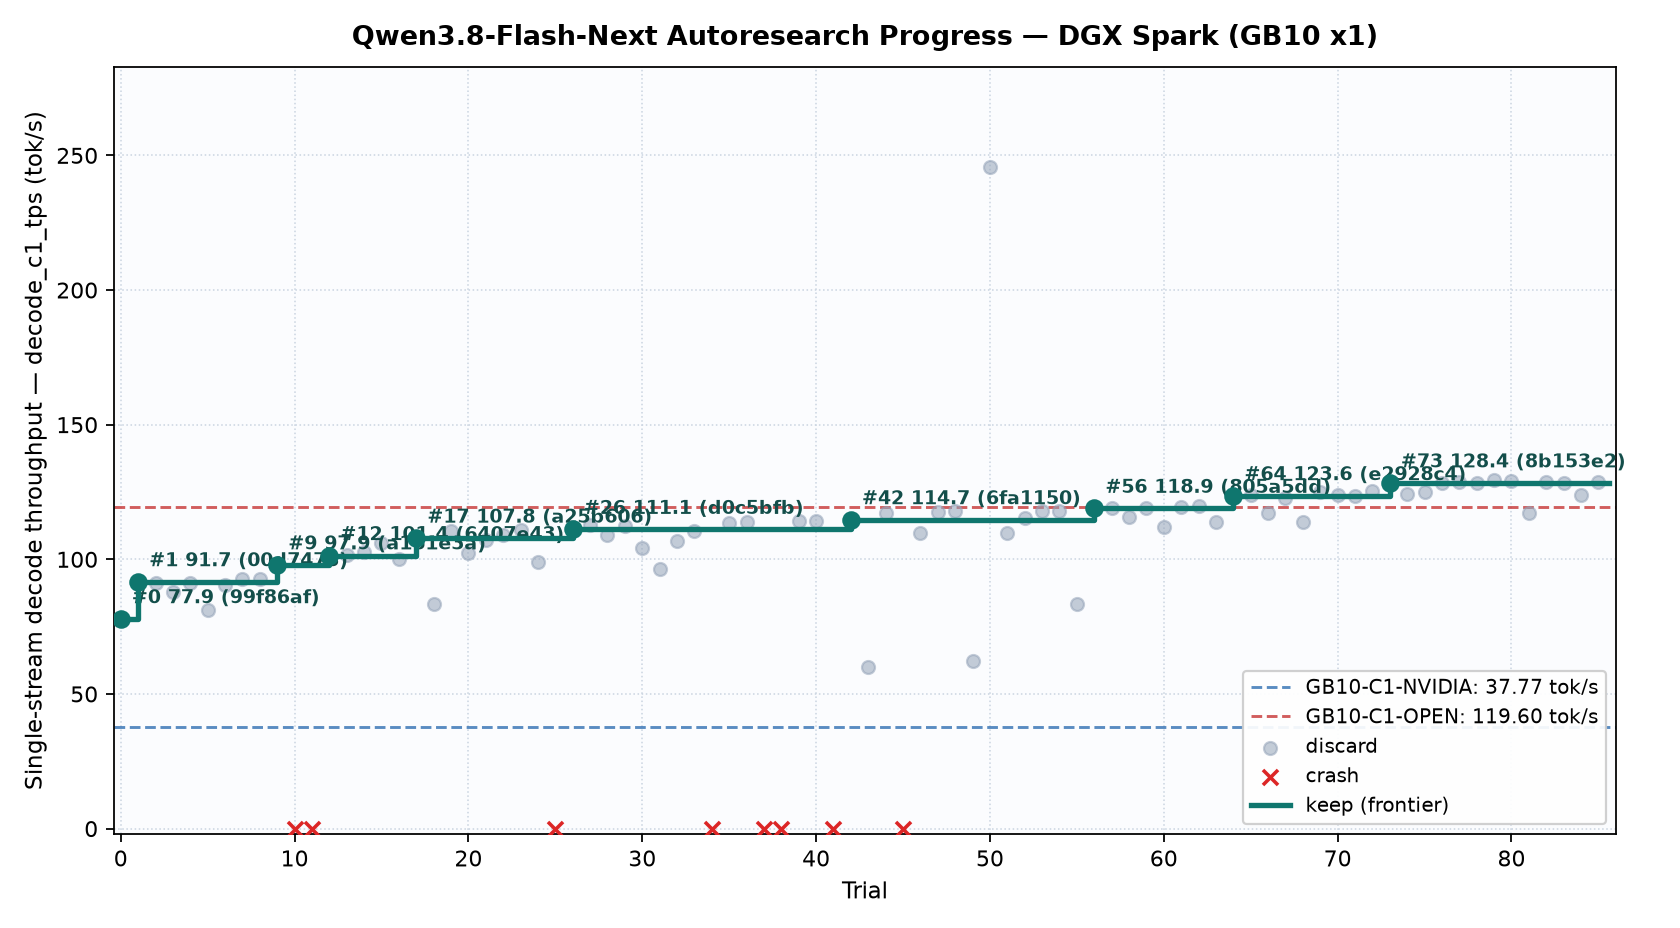
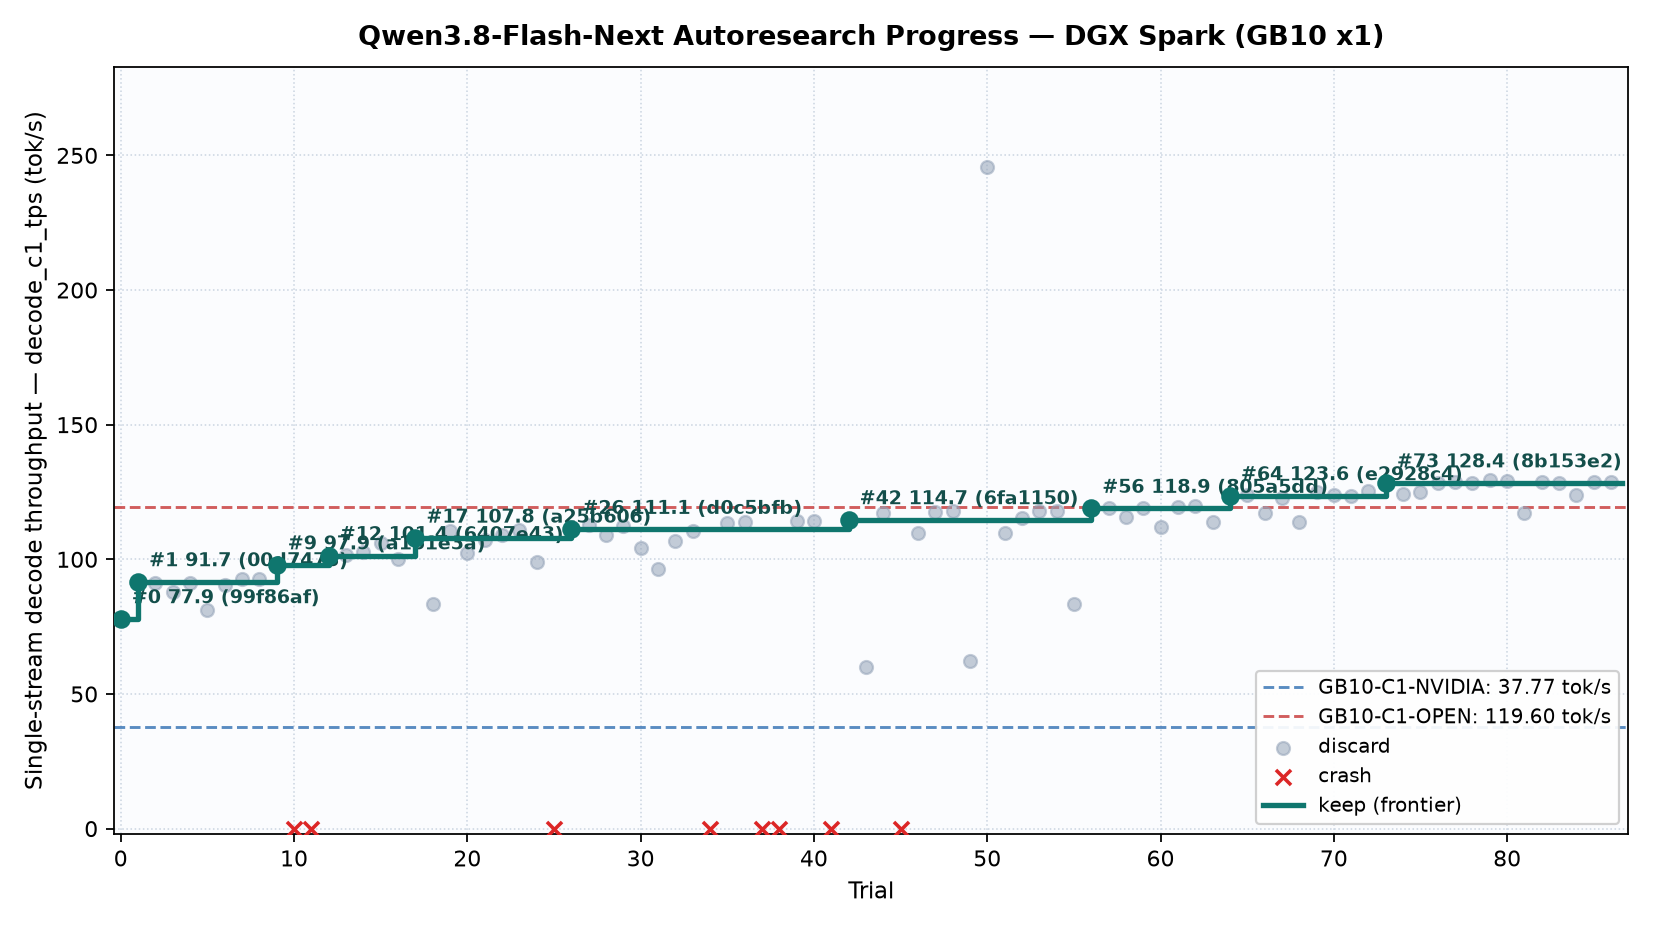
spark trial 86: discard

diff --git a/records/research-log.md b/records/research-log.md
@@ -115,3 +115,4 @@ Deprioritized: **3-bit expert weights** (Hibana +43% but GPQA -0.3, LCB -2.3; on
 | 2026-11-21 14:33 | 83 (new stack) | <https://github.com/vllm-project/vllm/commit/f8b29fab414884206460fe63b983ca34fc6e3e9b> | Six feeds checked. The vLLM CUDA graph merge targets audio encoders; trial 82's four-warp down projection gained 0.21% C1. | Defer the audio change. Stage private key/query tiles per warp in Gated DeltaNet verification and replace both per-row CTA barriers with warp barriers; preserve the reduction and state updates. |
 | 2026-11-21 14:44 | 84 (new stack) | <https://github.com/ashhart/TensorFold/pull/4312> | Six upstream feeds checked. TensorFold's new forward-cost estimator targets HIP. | Defer HIP changes. Lower the greedy renewal cost prior from 3.2 to 2.7 to stop marginal draft tokens earlier on the trial 73 kernels. |
 | 2026-11-21 14:49 | 85 (new stack) | <https://github.com/ashhart/TensorFold/pull/3616> | Six feeds checked. TensorFold's DFlash MLP split requires three or more ranks. Trial 84 lost 3.43% C1. | Retain the parent stopping policy and use a CTA population count for each draft-shortlist block cutoff step. |
+| 2026-11-21 14:58 | 86 (new stack) | <https://github.com/ashhart/TensorFold/pull/3277> | Six feeds checked. TensorFold's FlashNext scale-index change is for Metal. Trial 85 gained 0.37% C1. | Defer the Metal change. Coalesce the MTP projection's 64 input activations into one warp load and distribute the BF16 pairs with shuffles. |
